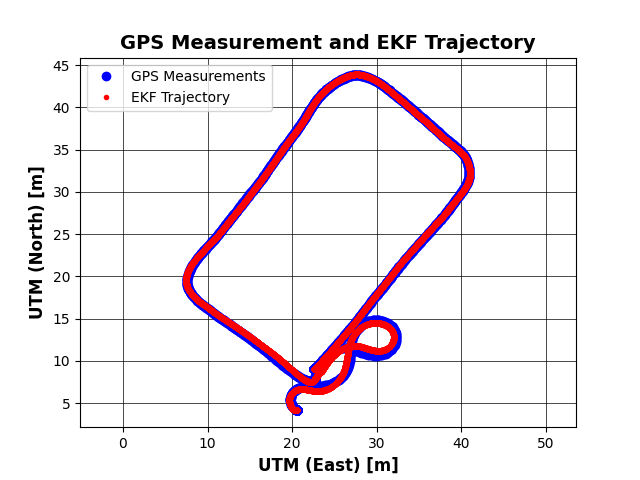
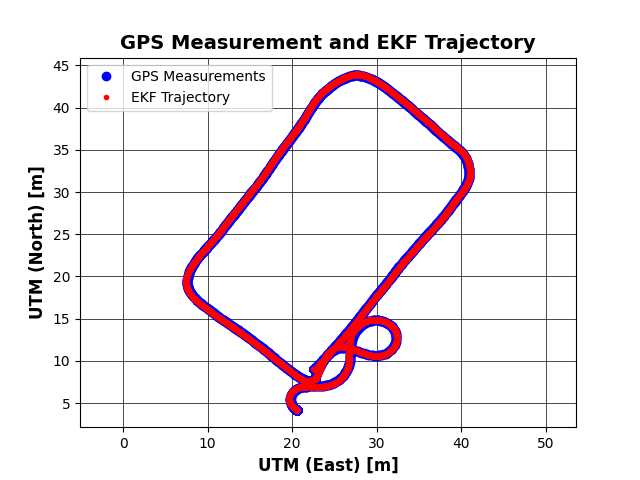
finish

diff --git a/main.py b/main.py
@@ -95,10 +95,22 @@ if (GPS_multi_simu == True):
 
 # Measurement noise
 
-std_gps = 0.01     # GPS [m]                               default = 0.01
-std_a = np.std(a[0:1000])       # Accelerations [m/s^2]    default = np.std(a[0:1000])
-std_omega = np.std(a[0:1000])   # Angular rate [rad/s] default = np.std(omega[0:1000])
+std_gps = 0.01     # GPS [m]                               default = 0.05 18.668
+std_a = np.std(a[0:100000])      # Accelerations [m/s^2]    default = np.std(a[0:1000])
+std_omega = 0.25   # Angular rate [rad/s] default = np.std(omega[0:1000])
+# print(std_a)       
+# print(std_omega) 
 
+# 1 10000 0.011497345961894776  0.0007721008383805309 7.6758095263681
+# 2 100000 0.14706149234759655  0.17653376045083508 4.014702719624097
+# 4 sample2 0.14706149234759655 0.2 3.8893015069379486
+
+# 6 sample3 0.14706149234759655 0.25 3.5060247557832924
+
+# 7 sample4 0.14706149234759655 0.26  3.5343471900378876
+# 5 sample1 0.14706149234759655 0.3 4.89484
+# 8 sample1 0.14706149234759655 0.4 4.9448412809914615
+# 3 all 0.1865740396835424  0.1241192696654598 4.203532436537764
 # System noise
 wk_phi = 0.1       # Angular accelerations [rad/s] default = 0.1  overestimate 10000
 wk_a = 1.5         # Linear jerk [m/s^3]          default = 1.5  overestimate 10000
@@ -178,61 +190,61 @@ print('filter started ... ')
 # -------------------------------------------
 # MAIN KF Loop
 
-# for i in range(0, nbr ):
-#     # -------------------------------------------
-#     # percent update 
-#     if (i / nbr) > percent:
-#         print('%1.0f' % (percent * 100), '% / 100%' )
-#         percent += 0.05
+for i in range(0, nbr ):
+    # -------------------------------------------
+    # percent update 
+    if (i / nbr) > percent:
+        print('%1.0f' % (percent * 100), '% / 100%' )
+        percent += 0.05
 
-#     # -------------------------------------------
-#     # Prediction Step
-#     x_bar, Sx_bar = prediction( xk, S_xkxk, S_wkwk, dt, i )
-#     xstate[i,0] = imar_data.imutime[i]
-#     xstate[i,1:7] = x_bar
-#     # -------------------------------------------
-#     # Update Step (IMU only)
+    # -------------------------------------------
+    # Prediction Step
+    x_bar, Sx_bar = prediction( xk, S_xkxk, S_wkwk, dt, i )
+    xstate[i,0] = imar_data.imutime[i]
+    xstate[i,1:7] = x_bar
+    # -------------------------------------------
+    # Update Step (IMU only)
 
-#     if ( np.isnan( L[1,i]) == True ):
+    if ( np.isnan( L[1,i]) == True ):
 
-#         h_gps = H[2:4, :]
-#         Sll_gps = Sll[2:, 2:]
-#         K = Sx_bar @ h_gps.T @ np.linalg.inv(h_gps @ Sx_bar @ h_gps.T + Sll_gps)
+        h_gps = H[2:4, :]
+        Sll_gps = Sll[2:, 2:]
+        K = Sx_bar @ h_gps.T @ np.linalg.inv(h_gps @ Sx_bar @ h_gps.T + Sll_gps)
 
-#         # Update state vector
-#         x_dach = x_bar + K @ (L[3:,i] - h_gps @ x_bar)
+        # Update state vector
+        x_dach = x_bar + K @ (L[3:,i] - h_gps @ x_bar)
 
-#         # Covariance matrix states 
-#         Sx_dach = (np.identity(6) - K @ h_gps) @ Sx_bar
+        # Covariance matrix states 
+        Sx_dach = (np.identity(6) - K @ h_gps) @ Sx_bar
 
-#         # save current estimate
-#         xstate[i,0] = imar_data.imutime[i]
-#         xstate[i,1:7] = x_dach
+        # save current estimate
+        xstate[i,0] = imar_data.imutime[i]
+        xstate[i,1:7] = x_dach
         
-#         # update states for next iteration
-#         xk = x_dach
-#         S_xkxk = Sx_dach
+        # update states for next iteration
+        xk = x_dach
+        S_xkxk = Sx_dach
     
-#     # -------------------------------------------
-#     # Update (GPS + IMU)
-#     else:
+    # -------------------------------------------
+    # Update (GPS + IMU)
+    else:
         
-#         # Kalman Gain Matrix
-#         K = Sx_bar @ H.T @ np.linalg.inv(H @ Sx_bar @ H.T + Sll)
+        # Kalman Gain Matrix
+        K = Sx_bar @ H.T @ np.linalg.inv(H @ Sx_bar @ H.T + Sll)
 
-#         # Update state vector
-#         x_dach = x_bar + K @ (L[1:,i] - H @ x_bar)
+        # Update state vector
+        x_dach = x_bar + K @ (L[1:,i] - H @ x_bar)
 
-#         # Covariance matrix states 
-#         Sx_dach = (np.identity(6) - K @ H) @ Sx_bar
+        # Covariance matrix states 
+        Sx_dach = (np.identity(6) - K @ H) @ Sx_bar
 
-#         # save estimation
-#         xstate[i,0] = imar_data.imutime[i]
-#         xstate[i,1:7] = x_dach
+        # save estimation
+        xstate[i,0] = imar_data.imutime[i]
+        xstate[i,1:7] = x_dach
 
-#         # update states for next iteration
-#         xk = x_dach
-#         S_xkxk = Sx_dach
+        # update states for next iteration
+        xk = x_dach
+        S_xkxk = Sx_dach
 
 # end MAIN loop
 # -------------------------------------------
@@ -521,7 +533,8 @@ idx_plot = np.arange(start=0, stop=nbr, step=10, dtype=int)
 # Task 4c: Difference in position over time
 # GPS vs strapdown vs EKF
 
-# gps_time = L[0,idx_imu]
+gps_time = L[0,idx_imu].shape
+print(gps_time)
 # gps_x_gps = L[1,idx_imu]
 # gps_y_gps = L[2,idx_imu]
 
@@ -530,7 +543,8 @@ idx_plot = np.arange(start=0, stop=nbr, step=10, dtype=int)
 # strap_x = x_strapdown[idx_imu]
 # strap_y = y_strapdown[idx_imu]
 
-# kf_x_gps = xstate[idx_imu, 1]
+kf_x_gps = xstate[:, 1].shape
+print(kf_x_gps)
 # kf_y_gps = xstate[idx_imu, 2]
 
 # diff_gps_and_strap = np.sqrt((gps_x_gps - strap_x)**2 + (gps_y_gps - strap_y)**2)
@@ -553,6 +567,60 @@ idx_plot = np.arange(start=0, stop=nbr, step=10, dtype=int)
 
 # plt.legend(['GPS vs Strapdown', 'GPS vs EKF'])
 # plt.savefig("Difference in position over time")
+# plt.show()
+
+# -------------------------------------------
+# Trajectory plot
+# Task 4c: Analyze the yaw or heading direction.
+# Strapdown and EKF
+
+
+# plt.subplot(211)
+# plt.plot( imar_data.imutime[idx_plot] ,geod.rad2deg(yaw_s[idx_plot]), '-b' )
+# plt.plot( xstate[idx_plot,0], geod.rad2deg(xstate[idx_plot,3]), '-r' )
+
+# plt.ylabel('Yaw [degrees]', fontsize=12, fontweight='bold')
+# # plt.xlabel('seconds of day [s] ', fontsize=12, fontweight='bold')
+# plt.legend(['Strapdown', 'EKF'])
+# plt.title('Yaw - Strapdown and EKF', fontsize=14, fontweight='bold')
+# plt.grid(color='k', linestyle='-', linewidth=0.5)
+
+# plt.subplot(212)
+# diff = geod.rad2deg(yaw_s[idx_plot]) - geod.rad2deg(xstate[idx_plot,3])
+# plt.plot( imar_data.imutime[idx_plot] , diff, '-g' )
+
+# plt.ylabel('Difference of Yaw [degrees]', fontsize=12, fontweight='bold')
+# plt.xlabel('seconds of day [s] ', fontsize=12, fontweight='bold')
+# plt.legend(['Difference Strapdown and EKF'])
+# plt.title('Difference of Yaw - Strapdown and EKF', fontsize=14, fontweight='bold')
+# plt.grid(color='k', linestyle='-', linewidth=0.5)
+# # plt.savefig("Yaw - Strapdown and EKF")
+# plt.show()
+
+
+# -------------------------------------------
+# Trajectory plot
+# Task 4c: Analyze velocity
+# Strapdown and EKF
+
+# plt.subplot(211)
+# plt.plot( imar_data.imutime[idx_plot] , v_s_m[idx_plot], '-b' )
+# plt.plot( xstate[idx_plot,0], np.abs(xstate[idx_plot,5]), '-r' )
+
+# plt.ylabel('Velocity [m/s]', fontsize=12, fontweight='bold')
+# plt.legend(['Strapdown', 'EKF'])
+# plt.title('Velocity - Strapdown and EKF', fontsize=14, fontweight='bold')
+# plt.grid(color='k', linestyle='-', linewidth=0.5)
+
+# plt.subplot(212)
+# diff = v_s_m[idx_plot] - np.abs(xstate[idx_plot,5])
+# plt.plot( imar_data.imutime[idx_plot] , diff, '-g' )
+
+# plt.ylabel('Difference of Velocity [m/s]', fontsize=12, fontweight='bold')
+# plt.xlabel('seconds of day [s] ', fontsize=12, fontweight='bold')
+# plt.legend(['Difference Strapdown and EKF'])
+# plt.title('Difference of Velocity - Strapdown and EKF', fontsize=14, fontweight='bold')
+# plt.grid(color='k', linestyle='-', linewidth=0.5)
 # plt.show()
 
 # -------------------------------------------

diff --git a/functions/strapdown.py b/functions/strapdown.py
@@ -26,7 +26,8 @@ def strapdown_algorithm(accx, accy, av, dt, x, y, yaw_init):
         
         v_s_x[i] = v_before_x + a_pb_x_b * dt
         v_s_y[i] = v_before_y + a_pb_y_b * dt
-
+        v_s_m[i] = np.sqrt(v_s_x[i]**2 + v_s_y[i]**2)
+        
         p_s_x[i] = p_before_x + v_s_x[i] * dt
         p_s_y[i] = p_before_y + v_s_y[i] * dt
         
